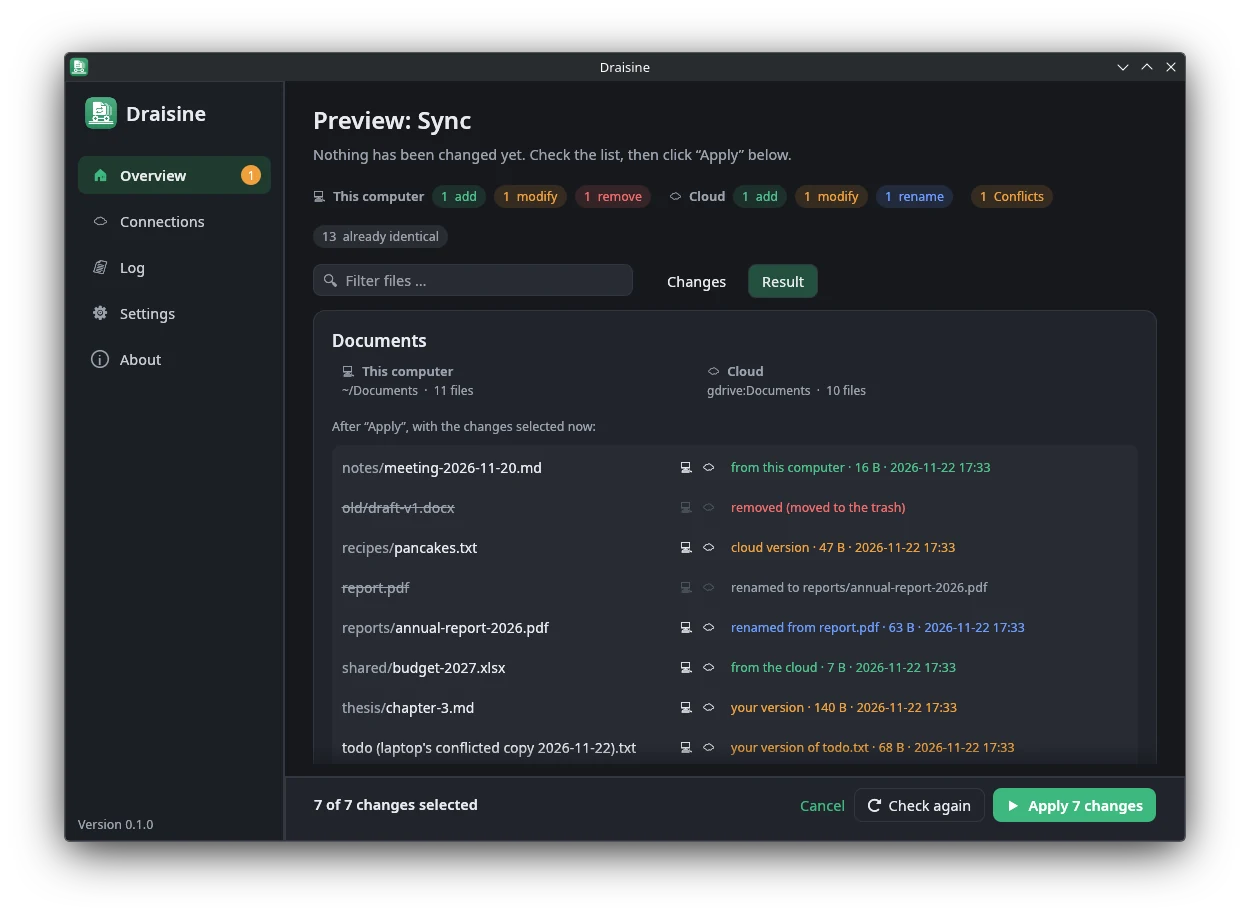
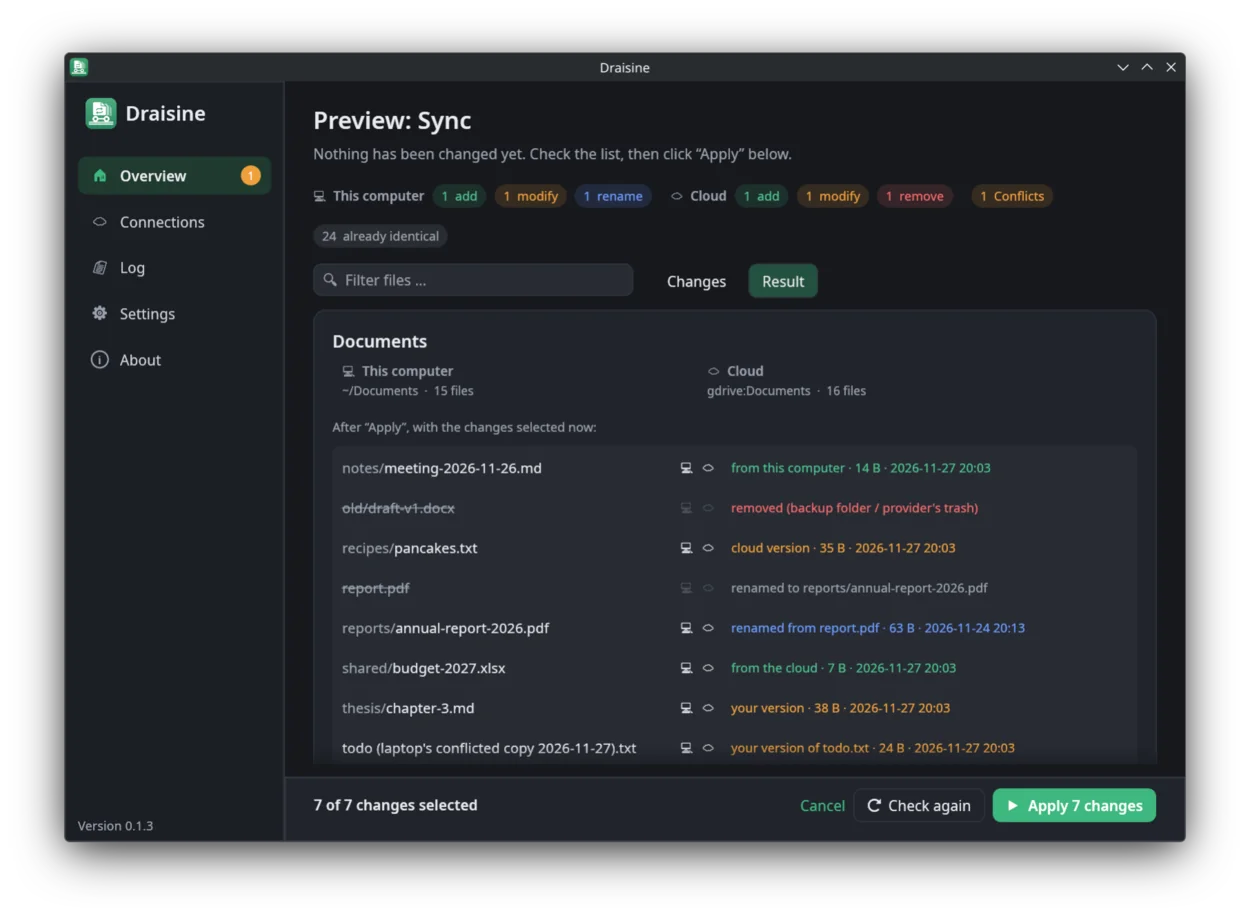
Add up-to-date screenshots to the README and the landing page
The sync preview (Changes and Result), the overview with per-pair direction
and auto-sync, and the setup assistant's provider step.

diff --git a/docs/index.html b/docs/index.html
@@ -86,6 +86,10 @@
 
   .shot { margin: 0; }
   .shot img { display: block; width: 100%; max-width: 980px; height: auto; margin: 0 auto; }
+  .gallery { display: grid; grid-template-columns: repeat(auto-fit, minmax(280px, 1fr)); gap: 24px; margin-top: 32px; }
+  .gallery img { max-width: 100%; }
+  .gallery figcaption { font-size: 15px; color: var(--muted); margin-top: 6px; padding: 0 4%; }
+  .gallery figcaption strong { color: var(--text); }
 
   /* decision table */
   .table-scroll { overflow-x: auto; -webkit-overflow-scrolling: touch; }
@@ -152,12 +156,29 @@
 <main>
   <section id="screenshot">
     <div class="wrap">
-      <h2>See the result before anything changes</h2>
-      <p class="sub">The preview shows every file after the sync and where its content will come from: this computer, the cloud, a rename, or a conflict copy. Deleted files are crossed out and go to the trash.</p>
+      <h2>See every change before it happens</h2>
+      <p class="sub">The preview puts this computer and the cloud side by side. Every file that is added, changed, renamed, deleted or in conflict is listed with the reason, and you can untick anything you don't want. Text files can be compared line by line.</p>
       <figure class="shot">
-        <a href="img/result.webp"><img src="img/result.webp" width="1250" height="918" loading="lazy"
-             alt="Draisine's sync preview, Result tab: a list of files in the Documents folder showing which come from this computer, which from the cloud, one renamed file, one file moved to the trash and one conflict copy. Buttons at the bottom: Cancel, Check again, Apply 7 changes."></a>
+        <a href="img/changes.webp"><img src="img/changes.webp" width="1250" height="918" loading="lazy"
+             alt="Draisine's sync preview, Changes tab, for the Documents folder: this computer and the cloud side by side. A new meeting note on this computer, a draft deleted locally that will be deleted in the cloud, a recipe changed in the cloud, a report renamed in the cloud, a new budget file in the cloud, a thesis chapter changed locally, and todo.txt changed on both sides as a conflict. Buttons at the bottom: Cancel, Check again, Apply 7 changes."></a>
       </figure>
+      <div class="gallery">
+        <figure class="shot">
+          <a href="img/result.webp"><img src="img/result.webp" width="1250" height="918" loading="lazy"
+               alt="The same preview on the Result tab: every file after the sync and where its content comes from, such as from this computer, from the cloud, renamed from report.pdf, or a conflicted copy of todo.txt. Deleted files are crossed out."></a>
+          <figcaption><strong>Result.</strong> Every file after the sync and where its content will come from. Deleted files are crossed out and go to the trash or a backup folder.</figcaption>
+        </figure>
+        <figure class="shot">
+          <a href="img/overview.webp"><img src="img/overview.webp" width="1250" height="918" loading="lazy"
+               alt="Draisine's overview with the folder pairs Documents (two-way with Google Drive) and Photos (one-way to OneDrive), each with last sync time, auto-sync switch and interval. Documents shows a note: 1 change waiting for your confirmation, with a Review button."></a>
+          <figcaption><strong>Overview.</strong> Each folder pair has its own direction and auto-sync interval. Changes that need your OK are flagged with a <em>Review</em> button.</figcaption>
+        </figure>
+        <figure class="shot">
+          <a href="img/setup.webp"><img src="img/setup.webp" width="1250" height="918" loading="lazy"
+               alt="The setup assistant, step 3 of 6: Which cloud storage do you want to connect? Choices: Google Drive, OneDrive, Dropbox, pCloud, Box, S3, WebDAV, SFTP and Other."></a>
+          <figcaption><strong>Setup assistant.</strong> Pick your cloud, sign in in the browser, choose the folders. Google Drive, OneDrive, Dropbox, S3, WebDAV, SFTP and more.</figcaption>
+        </figure>
+      </div>
     </div>
   </section>
 

diff --git a/README.md b/README.md
@@ -12,6 +12,12 @@ Tray app for safely syncing local folders with Google Drive, OneDrive, Dropbox a
 A single executable, no installation. The release archive ships the matching rclone right next to it.
 Linux (KDE, GNOME with the AppIndicator extension, …), Windows, macOS.
 
+![Sync preview: this computer and the cloud side by side, every change with its reason](docs/img/changes.webp)
+
+| Overview | Result of a sync | Setup assistant |
+|---|---|---|
+| [![Overview with folder pairs, auto-sync and a change waiting for confirmation](docs/img/overview.webp)](docs/img/overview.webp) | [![Preview, Result tab: every file after the sync and where it comes from](docs/img/result.webp)](docs/img/result.webp) | [![Setup assistant: choosing the cloud provider](docs/img/setup.webp)](docs/img/setup.webp) |
+
 ## Installation
 
 Download the archive for your system from the [releases](https://github.com/hekori/draisine/releases/latest), unpack it and start `draisine`.
